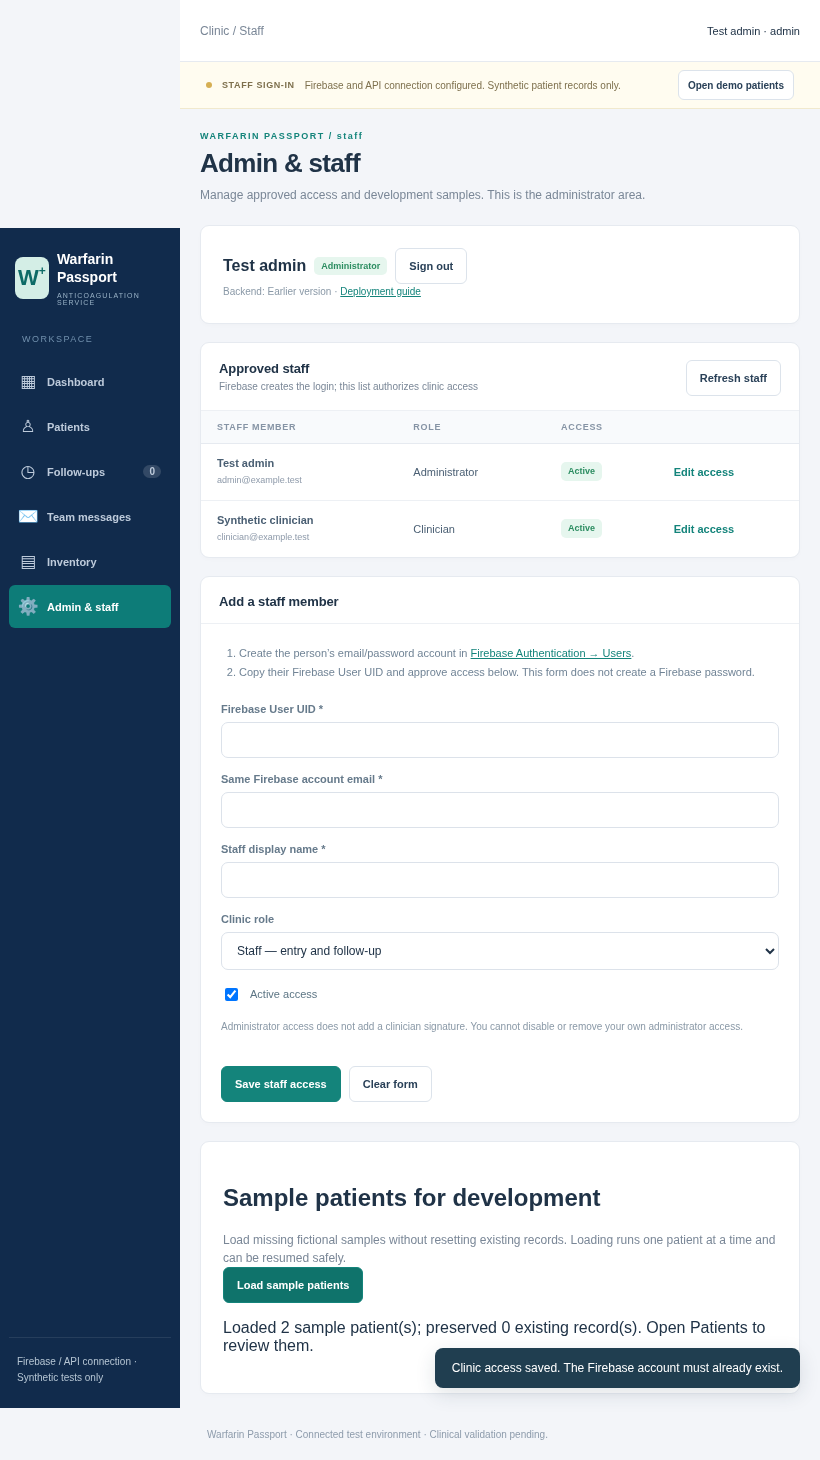
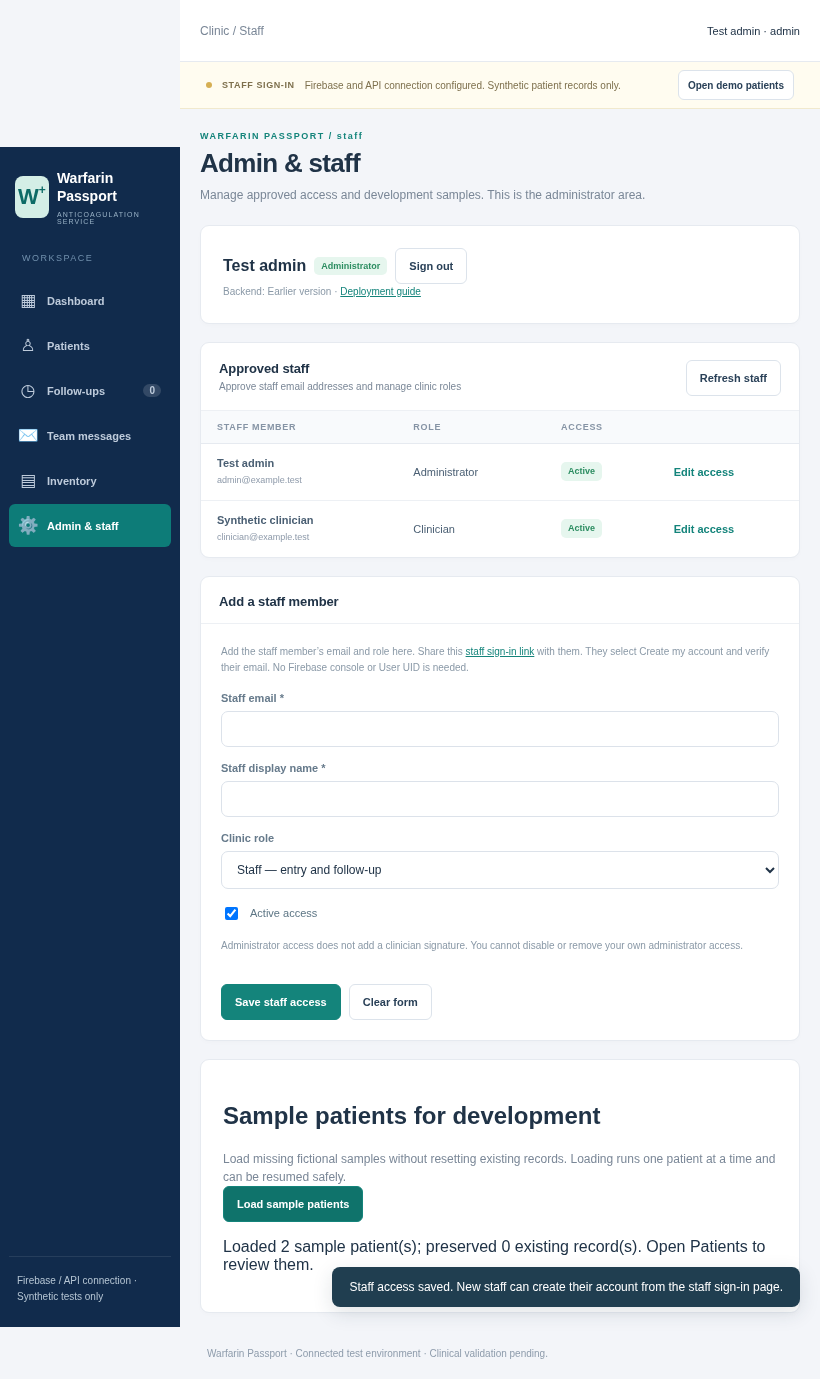
Add in-app email approval and verified staff account creation

diff --git a/app.js b/app.js
@@ -1,6 +1,6 @@
 import {ttrForPatient,clinicTTR} from './ttr.mjs';
 import {doseReview,UW_SOURCE,ACF_SOURCE} from './dose-review.mjs';
-import {connectionAvailable, connected, signIn, signOut, api, patientFromApi} from './api-client.mjs?v=admin-workflow-2';
+import {connectionAvailable, connected, createStaffAccount, sendAccountEmail, signIn, signOut, api, patientFromApi} from './api-client.mjs?v=invitations-1';
 import {doseSummary, followupAttempt} from './clinical-utils.mjs';
 import {addDays, todayRiyadh, dateLabel, ageFromDOB, sumDose} from './date-utils.mjs';
 
@@ -126,15 +126,15 @@ function roleLabel(role){return {admin:'Administrator',clinician:'Clinician',sub
 async function loadApprovedStaff(){if(!connected||staff?.role!=='admin'||staffListBusy)return;staffListBusy=true;try{approvedStaff=await api('users.list',{});staffListLoaded=true;staffListError='';}catch(err){staffListError=err.message;}finally{staffListBusy=false;if(view==='staff')render();}}
 function pageStaff(){
  if(!connected)return `${heading('Demo account','Demo mode has no administrator login. Use Staff sign-in for the connected database.')}<section class="card pad"><h2>Administrator and staff access</h2><p class="subtext">The same sign-in page is used for everyone. Your approved account role determines your access.</p><a class="btn primary" href="?mode=connected&view=staff">Staff / administrator sign-in</a></section>`;
- if(!staff)return `${heading('Staff & administrator sign-in','Use the Firebase email/password account approved for this clinic.')}<section class="card pad"><form id="login-form"><div class="form-grid">${field('email','Staff email','','email','required autocomplete="username"')}${field('password','Password','','password','required autocomplete="current-password"')}</div><p class="form-help">Administrators use this same login. There is no separate admin password. Access comes from the approved role in the clinic database.</p><p id="login-error" role="alert" class="warning-box" hidden></p><button class="btn primary">Sign in</button></form></section>`;
+ if(!staff)return `${heading('Staff & administrator sign-in','Sign in with your clinic account, or create your password after your administrator approves your email.')}<section class="card pad"><form id="login-form"><div class="form-grid">${field('email','Staff email','','email','required autocomplete="username"')}${field('password','Password','','password','required autocomplete="current-password"')}</div><p class="form-help">Administrators use this same login. There is no separate admin password. Access comes from the approved role in the clinic database.</p><p id="login-error" role="alert" class="warning-box" hidden></p><button class="btn primary">Sign in</button><div class="mini-actions"><button class="btn" type="button" id="create-account">Create my account</button><button class="btn" type="button" id="verify-account">Resend verification email</button><button class="btn" type="button" id="reset-password">Reset password</button></div><p class="form-help">New staff: enter your approved email and a password of at least 12 characters, select Create my account, verify the email, then sign in. Creating an account alone does not grant clinic access.</p></form></section>`;
  const identity=`<section class="card pad"><div class="mini-actions"><b>${e(staff.displayName||staff.email)}</b>${tag(roleLabel(staff.role),'good')}<button class="btn" id="sign-out">Sign out</button></div><p class="form-help">Backend: ${e(staff.backendRelease||'Earlier version')} · <a href="https://github.com/insaneCoro/Warfarin-Passport/blob/main/docs/AUTOMATED_DEPLOYMENT.md" target="_blank" rel="noopener">Deployment guide</a></p></section>`;
  if(staff.role!=='admin')return `${heading('My account','You are signed into the connected clinic. Administrators manage staff access.')}${identity}`;
- return `${heading('Admin & staff','Manage approved access and development samples. This is the administrator area.')}${identity}<div class="admin-layout"><section class="card"><div class="card-header"><div><h2>Approved staff</h2><small>Firebase creates the login; this list authorizes clinic access</small></div><button class="btn" id="refresh-staff">Refresh staff</button></div>${staffListError?`<p class="warning-box">${e(staffListError)}</p>`:''}${staffListLoaded?`<div class="table-wrap"><table><thead><tr><th>Staff member</th><th>Role</th><th>Access</th><th></th></tr></thead><tbody>${approvedStaff.map(u=>`<tr><td><b>${e(u.displayName||u.email)}</b><small>${e(u.email)}</small></td><td>${e(roleLabel(u.role))}</td><td>${tag(String(u.active).toLowerCase()==='true'?'Active':'Disabled',String(u.active).toLowerCase()==='true'?'good':'neutral')}</td><td><button class="inline-action" data-edit-staff="${e(u.uid)}">Edit access</button></td></tr>`).join('')}</tbody></table></div>`:'<div class="empty">Loading approved staff…</div>'}</section><section class="card"><div class="card-header"><h2>${staffDraft.uid?'Approve / update staff access':'Add a staff member'}</h2></div><form class="composer-body" id="staff-form"><ol class="staff-steps"><li>Create the person’s email/password account in <a href="https://console.firebase.google.com/project/warfarin-43d4d/authentication/users" target="_blank" rel="noopener">Firebase Authentication → Users</a>.</li><li>Copy their Firebase User UID and approve access below. This form does not create a Firebase password.</li></ol>${field('uid','Firebase User UID *',staffDraft.uid,'text','required maxlength="128"')}${field('email','Same Firebase account email *',staffDraft.email,'email','required')}${field('displayName','Staff display name *',staffDraft.displayName,'text','required maxlength="120"')}${selectField('role','Clinic role',[['subadmin','Staff — entry and follow-up'],['clinician','Clinician — clinical approval'],['admin','Administrator — accounts/settings']],staffDraft.role)}<label class="checkbox-line"><input name="active" type="checkbox" ${staffDraft.active?'checked':''}> Active access</label><p class="form-help">Administrator access does not add a clinician signature. You cannot disable or remove your own administrator access.</p><p id="staff-result" role="status" aria-live="polite"></p><div class="mini-actions"><button class="btn primary" type="submit">Save staff access</button><button class="btn" type="button" id="new-staff">Clear form</button></div></form></section></div><section class="card pad"><h2>Sample patients for development</h2><p class="subtext">Load missing fictional samples without resetting existing records. Loading runs one patient at a time and can be resumed safely.</p><button class="btn primary" id="load-samples">Load sample patients</button><p id="sample-result" role="status" aria-live="polite"></p></section>`;
+ return `${heading('Admin & staff','Manage approved access and development samples. This is the administrator area.')}${identity}<div class="admin-layout"><section class="card"><div class="card-header"><div><h2>Approved staff</h2><small>Approve staff email addresses and manage clinic roles</small></div><button class="btn" id="refresh-staff">Refresh staff</button></div>${staffListError?`<p class="warning-box">${e(staffListError)}</p>`:''}${staffListLoaded?`<div class="table-wrap"><table><thead><tr><th>Staff member</th><th>Role</th><th>Access</th><th></th></tr></thead><tbody>${approvedStaff.map(u=>`<tr><td><b>${e(u.displayName||u.email)}</b><small>${e(u.email)}</small>${String(u.uid).startsWith('invite:')?'<small>Awaiting verified account</small>':''}</td><td>${e(roleLabel(u.role))}</td><td>${tag(String(u.active).toLowerCase()==='true'?'Active':'Disabled',String(u.active).toLowerCase()==='true'?'good':'neutral')}</td><td><button class="inline-action" data-edit-staff="${e(u.uid)}">Edit access</button></td></tr>`).join('')}</tbody></table></div>`:'<div class="empty">Loading approved staff…</div>'}</section><section class="card"><div class="card-header"><h2>${staffDraft.uid?'Approve / update staff access':'Add a staff member'}</h2></div><form class="composer-body" id="staff-form"><p class="form-help">Add the staff member’s email and role here. Share this <a href="?mode=connected&view=staff">staff sign-in link</a> with them. They select Create my account and verify their email. No Firebase console or User UID is needed.</p><input name="uid" type="hidden" value="${e(staffDraft.uid)}">${field('email','Staff email *',staffDraft.email,'email','required')}${field('displayName','Staff display name *',staffDraft.displayName,'text','required maxlength="120"')}${selectField('role','Clinic role',[['subadmin','Staff — entry and follow-up'],['clinician','Clinician — clinical approval'],['admin','Administrator — accounts/settings']],staffDraft.role)}<label class="checkbox-line"><input name="active" type="checkbox" ${staffDraft.active?'checked':''}> Active access</label><p class="form-help">Administrator access does not add a clinician signature. You cannot disable or remove your own administrator access.</p><p id="staff-result" role="status" aria-live="polite"></p><div class="mini-actions"><button class="btn primary" type="submit">Save staff access</button><button class="btn" type="button" id="new-staff">Clear form</button></div></form></section></div><section class="card pad"><h2>Sample patients for development</h2><p class="subtext">Load missing fictional samples without resetting existing records. Loading runs one patient at a time and can be resumed safely.</p><button class="btn primary" id="load-samples">Load sample patients</button><p id="sample-result" role="status" aria-live="polite"></p></section>`;
 }
 async function saveStaffAccess(form){
  if(staff?.role!=='admin')return;
  const button=form.querySelector('[type=submit]'),status=form.querySelector('#staff-result'),fd=new FormData(form);button.disabled=true;
- try{await api('users.upsert',{uid:String(fd.get('uid')).trim(),email:String(fd.get('email')).trim(),displayName:String(fd.get('displayName')).trim(),role:fd.get('role'),active:fd.has('active')});staffDraft={uid:'',email:'',displayName:'',role:'subadmin',active:true};await loadApprovedStaff();toast('Clinic access saved. The Firebase account must already exist.');}catch(err){status.textContent=err.message;button.disabled=false;}
+ try{await api('users.upsert',{uid:String(fd.get('uid')).trim(),email:String(fd.get('email')).trim(),displayName:String(fd.get('displayName')).trim(),role:fd.get('role'),active:fd.has('active')});staffDraft={uid:'',email:'',displayName:'',role:'subadmin',active:true};await loadApprovedStaff();toast('Staff access saved. New staff can create their account from the staff sign-in page.');}catch(err){status.textContent=err.message;button.disabled=false;}
 }
 
 function render(){const staffNav=document.querySelector('[data-nav=staff]');staffNav.innerHTML=`<span class="nav-ico">⚙</span>${connected&&staff?.role==='admin'?'Admin & staff':connected&&!staff?'Staff sign-in':'Staff & settings'}`;if(connected)document.querySelector('.user-pill').textContent=staff?`${staff.displayName||staff.email} · ${staff.role}`:'Staff sign-in required';document.querySelector('#today-label').textContent=dateLabel(TODAY);document.querySelector('#nav-followups').textContent=worklist().filter(f=>f.callDate<=TODAY).length;nav.querySelectorAll('[data-nav]').forEach(b=>b.classList.toggle('active',b.dataset.nav===(view==='passport'?'patients':view)));document.querySelector('#breadcrumb').textContent=`Clinic / ${view==='passport'?'Patient passport':view[0].toUpperCase()+view.slice(1)}`;screen.innerHTML=({dashboard:pageDashboard,patients:pagePatients,passport:pagePassport,followups:pageFollowups,inventory:pageInventory,staff:pageStaff,messages:pageMessages}[view]||pageDashboard)()}
@@ -163,7 +163,7 @@ async function submitForm(fd){if(modalType==='whatsapp'){modalRoot.innerHTML='';
  }else if(modalType==='inventory'){const p=getPatient(),strength=Number(fd.get('strength')),quantity=Number(fd.get('quantity'));if(!(strength>0&&quantity>=0&&Number.isInteger(quantity)))throw Error('Enter a valid strength and whole-tablet quantity.');const old=p.inventory.find(x=>x.strength===strength);if(old){old.quantity=quantity;old.date=fd.get('confirmedDate')}else p.inventory.push({strength,quantity,date:fd.get('confirmedDate')});
  }else if(modalType==='note'){const note=String(fd.get('note')||'').trim();if(!note)throw Error('Note cannot be blank.');getPatient().notes.push({id:String(Date.now()),date:fd.get('noteDate'),text:note,supersedes:fd.get('supersedes')||null,by:'Unverified demo staff'});}
  save();modalRoot.innerHTML='';render();toast('Saved in synthetic browser demo only.')}
-document.addEventListener('click',ev=>{const b=ev.target.closest('button,[data-open]');if(!b)return;if(b.id==='refresh-staff'){loadApprovedStaff();return;}if(b.id==='new-staff'){staffDraft={uid:'',email:'',displayName:'',role:'subadmin',active:true};render();return;}if(b.dataset.editStaff){const u=approvedStaff.find(u=>u.uid===b.dataset.editStaff);staffDraft={...u,active:String(u.active).toLowerCase()==='true'};render();document.querySelector('#staff-form').scrollIntoView({block:'start',behavior:'smooth'});return;}if(b.id==='refresh-messages'){refreshTeamMessages();return;}if(b.id==='older-messages'){refreshTeamMessages(true);return;}if(b.dataset.reply){const m=teamMessages.find(m=>m.id===b.dataset.reply);messageDraft.replyTo=m.id;messageDraft.patientId=m.patientId||'';render();document.querySelector('#message-body').focus();return;}if(b.id==='cancel-reply'){messageDraft.replyTo='';messageDraft.requestId=null;render();return;}if(b.dataset.filter){dashboardFilter=b.dataset.filter;render();return;}if(b.id==='load-samples'){loadSamples(b);return;}if(b.dataset.nav){view=b.dataset.nav;selectedMRN=null;render();if(view==='messages')refreshTeamMessages();if(view==='staff'&&staff?.role==='admin')loadApprovedStaff()}else if(b.dataset.navto){view=b.dataset.navto;render();if(view==='messages')refreshTeamMessages();if(view==='staff'&&staff?.role==='admin')loadApprovedStaff()}else if(b.dataset.open){openPatient(b.dataset.open)}else if(b.dataset.modal){openModal(b.dataset.modal)}else if(b.hasAttribute('data-dismiss')){modalRoot.innerHTML=''}else if(b.dataset.inventoryFor){selectedMRN=b.dataset.inventoryFor;openModal('inventory')}else if(b.dataset.followupOpen){const [mrn]=b.dataset.followupOpen.split('|');openPatient(mrn)}else if(b.id==='approve-decision'){api('decisions.approve',{encounterId:b.dataset.encounter}).then(refreshRemote).then(render).catch(err=>toast(err.message));}else if(b.id==='sign-out'){signOut();staff=null;patients=[];selectedMRN=null;view='staff';teamMessages=[];teamLoaded=false;messageDraft={body:'',patientId:'',replyTo:'',requestId:null};render();}else if(b.id==='reset-demo'){if(connected){toast('Reset disabled for connected database');return;}if(confirm('Reset all fictional demo records?')){patients=seeds();localStorage.removeItem(DEMO_MESSAGES_KEY);teamMessages=demoMessages();messageDraft={body:'',patientId:'',replyTo:'',requestId:null};save();view='dashboard';selectedMRN=null;render();toast('Synthetic demo reset.')}}});
+document.addEventListener('click',ev=>{const b=ev.target.closest('button,[data-open]');if(!b)return;if(['create-account','verify-account','reset-password'].includes(b.id)){handleAccountAction(b);return;}if(b.id==='refresh-staff'){loadApprovedStaff();return;}if(b.id==='new-staff'){staffDraft={uid:'',email:'',displayName:'',role:'subadmin',active:true};render();return;}if(b.dataset.editStaff){const u=approvedStaff.find(u=>u.uid===b.dataset.editStaff);staffDraft={...u,active:String(u.active).toLowerCase()==='true'};render();document.querySelector('#staff-form').scrollIntoView({block:'start',behavior:'smooth'});return;}if(b.id==='refresh-messages'){refreshTeamMessages();return;}if(b.id==='older-messages'){refreshTeamMessages(true);return;}if(b.dataset.reply){const m=teamMessages.find(m=>m.id===b.dataset.reply);messageDraft.replyTo=m.id;messageDraft.patientId=m.patientId||'';render();document.querySelector('#message-body').focus();return;}if(b.id==='cancel-reply'){messageDraft.replyTo='';messageDraft.requestId=null;render();return;}if(b.dataset.filter){dashboardFilter=b.dataset.filter;render();return;}if(b.id==='load-samples'){loadSamples(b);return;}if(b.dataset.nav){view=b.dataset.nav;selectedMRN=null;render();if(view==='messages')refreshTeamMessages();if(view==='staff'&&staff?.role==='admin')loadApprovedStaff()}else if(b.dataset.navto){view=b.dataset.navto;render();if(view==='messages')refreshTeamMessages();if(view==='staff'&&staff?.role==='admin')loadApprovedStaff()}else if(b.dataset.open){openPatient(b.dataset.open)}else if(b.dataset.modal){openModal(b.dataset.modal)}else if(b.hasAttribute('data-dismiss')){modalRoot.innerHTML=''}else if(b.dataset.inventoryFor){selectedMRN=b.dataset.inventoryFor;openModal('inventory')}else if(b.dataset.followupOpen){const [mrn]=b.dataset.followupOpen.split('|');openPatient(mrn)}else if(b.id==='approve-decision'){api('decisions.approve',{encounterId:b.dataset.encounter}).then(refreshRemote).then(render).catch(err=>toast(err.message));}else if(b.id==='sign-out'){signOut();staff=null;patients=[];selectedMRN=null;view='staff';teamMessages=[];teamLoaded=false;messageDraft={body:'',patientId:'',replyTo:'',requestId:null};render();}else if(b.id==='reset-demo'){if(connected){toast('Reset disabled for connected database');return;}if(confirm('Reset all fictional demo records?')){patients=seeds();localStorage.removeItem(DEMO_MESSAGES_KEY);teamMessages=demoMessages();messageDraft={body:'',patientId:'',replyTo:'',requestId:null};save();view='dashboard';selectedMRN=null;render();toast('Synthetic demo reset.')}}});
 document.addEventListener('submit',async ev=>{if(ev.target.id==='staff-form'){ev.preventDefault();await saveStaffAccess(ev.target);return;}if(ev.target.id==='message-form'){ev.preventDefault();await sendTeamMessage(ev.target);return;}if(ev.target.id==='login-form'){ev.preventDefault();const submit=ev.target.querySelector('button');submit.disabled=true;const message=ev.target.querySelector('#login-error');message.hidden=true;try{const fd=new FormData(ev.target);staff=await signIn(fd.get('email'),fd.get('password'));await refreshRemote();view=new URLSearchParams(location.search).get('view')==='staff'?'staff':'dashboard';render();if(view==='staff'&&staff.role==='admin')loadApprovedStaff();}catch(err){staff=null;patients=[];signOut();message.textContent=err.message;message.hidden=false;submit.disabled=false;}return;}if(ev.target.id==='modal-form'){ev.preventDefault();try{const button=ev.target.querySelector('[type=submit]');button.disabled=true;await submitForm(new FormData(ev.target))}catch(err){toast(err.message);ev.target.querySelector('[type=submit]').disabled=false;}}});
 document.addEventListener('input',ev=>{if(ev.target.closest('#staff-form')){staffDraft[ev.target.name]=ev.target.type==='checkbox'?ev.target.checked:ev.target.value;return;}if(ev.target.id==='message-body'){messageDraft.body=ev.target.value;return;}if(ev.target.id==='message-patient'){messageDraft.patientId=ev.target.value;return;}if(ev.target.id==='patient-search'){const pos=ev.target.selectionStart;search=ev.target.value;const term=search.toLowerCase();const found=patients.filter(p=>[p.mrn,p.name,p.phone].some(s=>String(s).toLowerCase().includes(term)));screen.querySelector('.card').innerHTML=tablePatients(found);ev.target.setSelectionRange(pos,pos)}else if(ev.target.id==='dashboard-search'){dashboardSearch=ev.target.value;document.querySelector('#dashboard-registry').innerHTML=tablePatients(filteredDashboardPatients());}else if(document.querySelector('#reference-output')){updateDoseReview();if(ev.target.name==='nextInrDate'){try{document.querySelector('[name=callPreview]').value=dateLabel(addDays(ev.target.value,2))}catch{}}}});
 async function submitRemote(fd){
@@ -193,3 +193,11 @@ async function loadSamples(button){
 if(connected){view='staff';document.querySelector('.sidebar-foot').textContent='Firebase / API connection · Synthetic tests only';document.querySelector('.demo-banner').innerHTML='<span class="demo-pulse"></span><b>STAFF SIGN-IN</b><span>Firebase and API connection configured. Synthetic patient records only.</span><a class="btn sm" href="?mode=demo">Open demo patients</a>';document.querySelector('.footnote').textContent='Warfarin Passport · Connected test environment · Clinical validation pending.';}
 if(!connected&&connectionAvailable){document.querySelector('.demo-banner').insertAdjacentHTML('beforeend','<a class="btn sm" href="?mode=connected">Staff sign-in</a>');}
 render();
+
+async function handleAccountAction(button){
+ const form=document.querySelector('#login-form'),fd=new FormData(form),message=form.querySelector('#login-error');
+ if(!form.querySelector('[name=email]').reportValidity())return;
+ if(button.id!=='reset-password'&&!form.querySelector('[name=password]').reportValidity())return;
+ const buttons=[...form.querySelectorAll('button')];buttons.forEach(b=>b.disabled=true);message.hidden=false;
+ try{if(button.id==='create-account'){await createStaffAccount(fd.get('email'),fd.get('password'));message.textContent='Verification email sent. Open it, verify your email, then return here and sign in. Your administrator must approve this email for clinic access.';}else{await sendAccountEmail(fd.get('email'),fd.get('password'),button.id==='verify-account');message.textContent=button.id==='verify-account'?'Verification email sent. Verify your email, then sign in again.':'If the account exists, a password-reset email will arrive shortly.';}form.querySelector('[name=password]').value='';}catch(err){message.textContent=err.message;}finally{buttons.forEach(b=>b.disabled=false);}
+}

diff --git a/index.html b/index.html
@@ -6,7 +6,7 @@
   <meta name="theme-color" content="#0e2437" />
   <meta name="description" content="Warfarin Passport — virtual anticoagulation clinic prototype using synthetic records." />
   <title>Warfarin Passport · Virtual Clinic</title>
-  <link rel="stylesheet" href="./styles.css?v=admin-workflow-2" />
+  <link rel="stylesheet" href="./styles.css?v=invitations-1" />
 </head>
 <body>
   <div id="app" class="app-layout">
@@ -32,6 +32,6 @@
   </div>
   <div id="dialog-root"></div>
   <div id="toast" class="toast" role="status" aria-live="polite"></div>
-  <script type="module" src="./app.js?v=admin-workflow-2"></script>
+  <script type="module" src="./app.js?v=invitations-1"></script>
 </body>
 </html>

diff --git a/docs/STAFF_ACCESS.md b/docs/STAFF_ACCESS.md
@@ -11,14 +11,22 @@ After an approved administrator signs in, the navigation shows **Admin & staff**
 
 ## Add a staff member
 
-1. As the Firebase project owner, open **Firebase Console → Authentication → Users → Add user** and create the person's email/password account. Keep account passwords private.
-2. Copy that person's Firebase User UID.
-3. In Warfarin Passport, open **Admin & staff → Add a staff member**.
-4. Enter the UID, the same account email, a display name and the intended role. Leave Active access checked, then save.
-5. The person signs in through the same Staff sign-in page using their own Firebase credentials.
+1. Sign in as an administrator and open **Admin & staff → Add a staff member**.
+2. Enter their email, display name and role. Leave Active access checked, then save.
+3. Share the staff sign-in URL at the top of this guide with them. Saving access does not send an invitation email automatically.
+4. The staff member enters that email and their own password (at least 12 characters), then selects **Create my account**.
+5. They open the verification email and verify their address, then return to the app and **Sign in**.
 
-The app form approves clinic access; it does not create a Firebase account or password. Roles are Administrator (account/settings management), Clinician (clinical approval), and Staff (entry/follow-up). Admin status alone is not a clinician signature. Administrators cannot disable or remove their own administrator access, and the backend protects the final active administrator.
+No Firebase console, User UID or shared password is needed. If the person already has an account, they can sign in after email verification; use **Resend verification email** or **Reset password** on the same page when needed. Firebase remains the authentication provider behind the scenes. Verification and password-reset emails are sent by Firebase; check spam if necessary. Existing approved accounts remain supported.
+
+New accounts do not receive clinic access by signing up. Apps Script binds one active email approval to one verified Firebase UID, using only the signed gateway identity. A second UID cannot claim that approval. Disabling staff access blocks clinic requests even if a Firebase session remains valid. Account role and acceptance events record authenticated actors in the audit log. Invitation rows use `invite:` identifiers in the existing Users schema and become bound UIDs on first verified login; no database is recreated.
+
+Roles are Administrator (account/settings management), Clinician (clinical approval), and Staff (entry/follow-up). Admin status alone is not a clinician signature. Administrators cannot disable or remove their own administrator access, and the backend protects the final active administrator.
 
 ## Sample loading and busy responses
 
 The loader imports at most one patient per API request and reports progress. It resumes incomplete fixtures using deterministic IDs and preserves existing records. Short replay-protection locking is separate from database-write locking for the execute-as-owner Web App. A busy database returns a fixed English message; the client makes a bounded retry only when lock acquisition failed before a mutation began. Never reset or recreate the database to recover from a busy response.
+
+## Deployment
+
+Deploy the Worker change along with Apps Script and the frontend. The Worker must forward `emailVerified` from the verified Firebase token claim (`email_verified === true`); browser parameters never supply it. An older Worker cannot accept new email approvals, but existing UID approvals still work. Use the existing backend deployment workflow and Cloudflare repository deployment; no new credentials or service account are required. Firebase Email/Password authentication and email templates remain configured in the existing project. Test the complete email-delivery flow with synthetic staff before clinical use.
